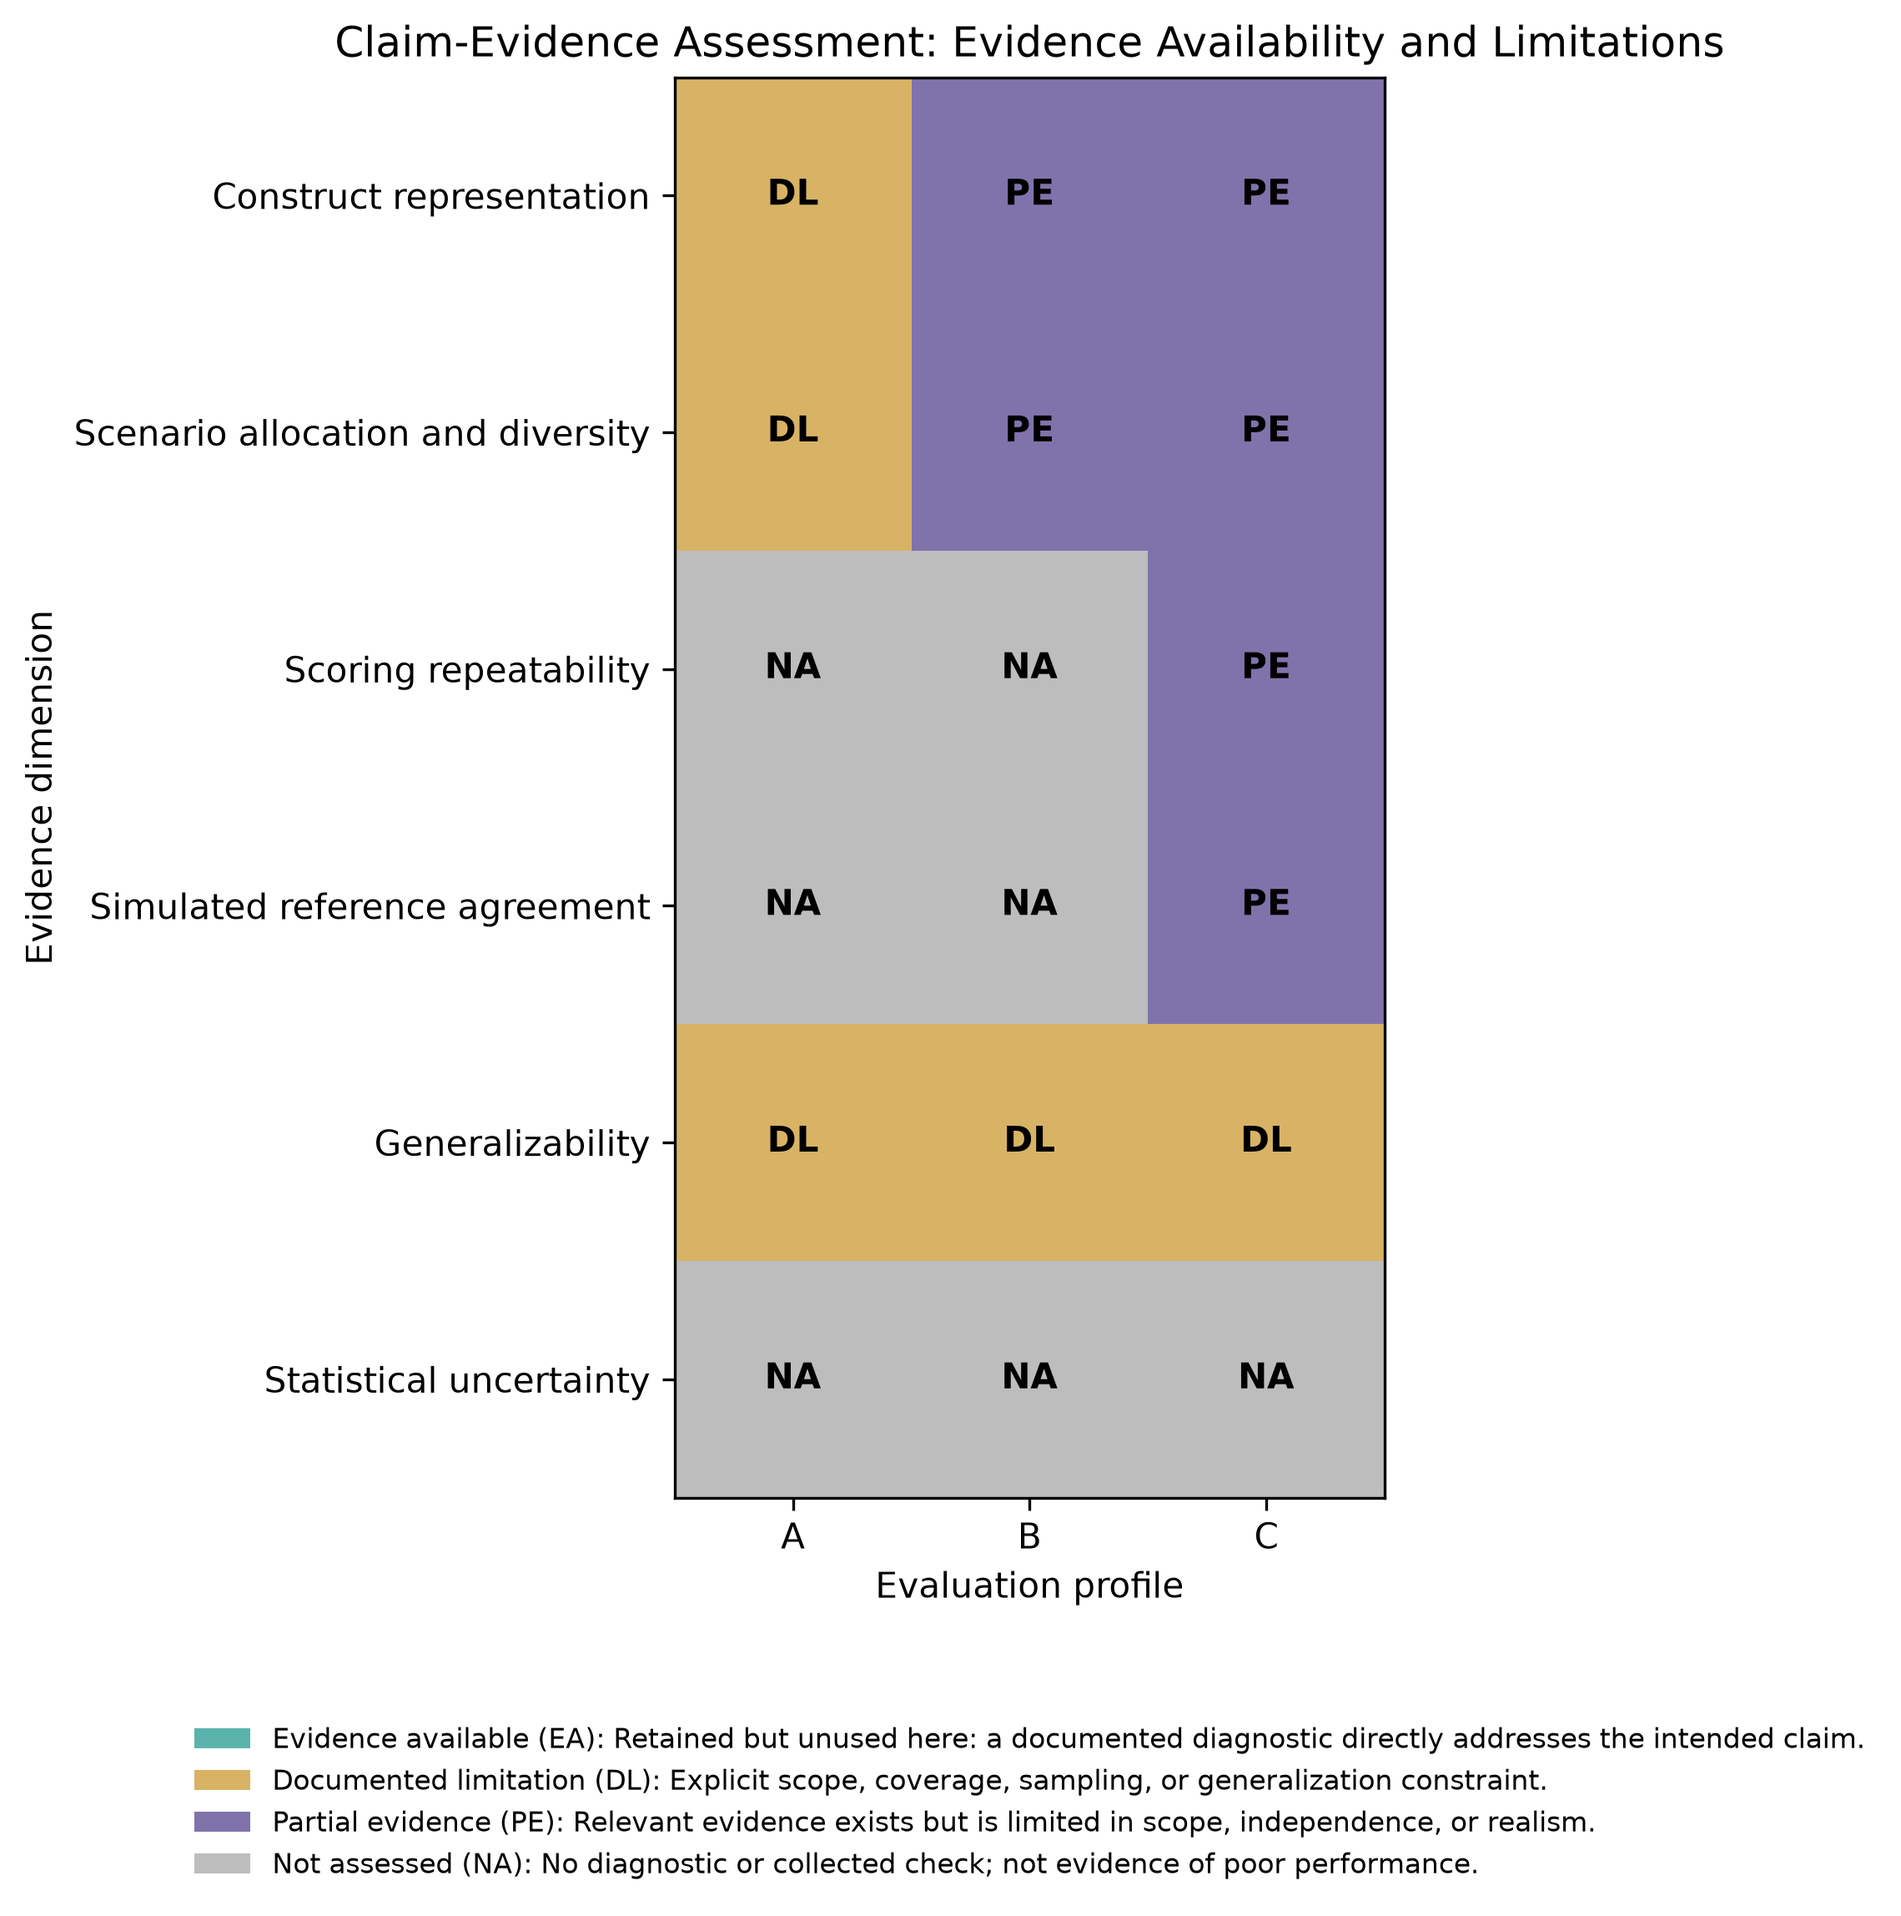
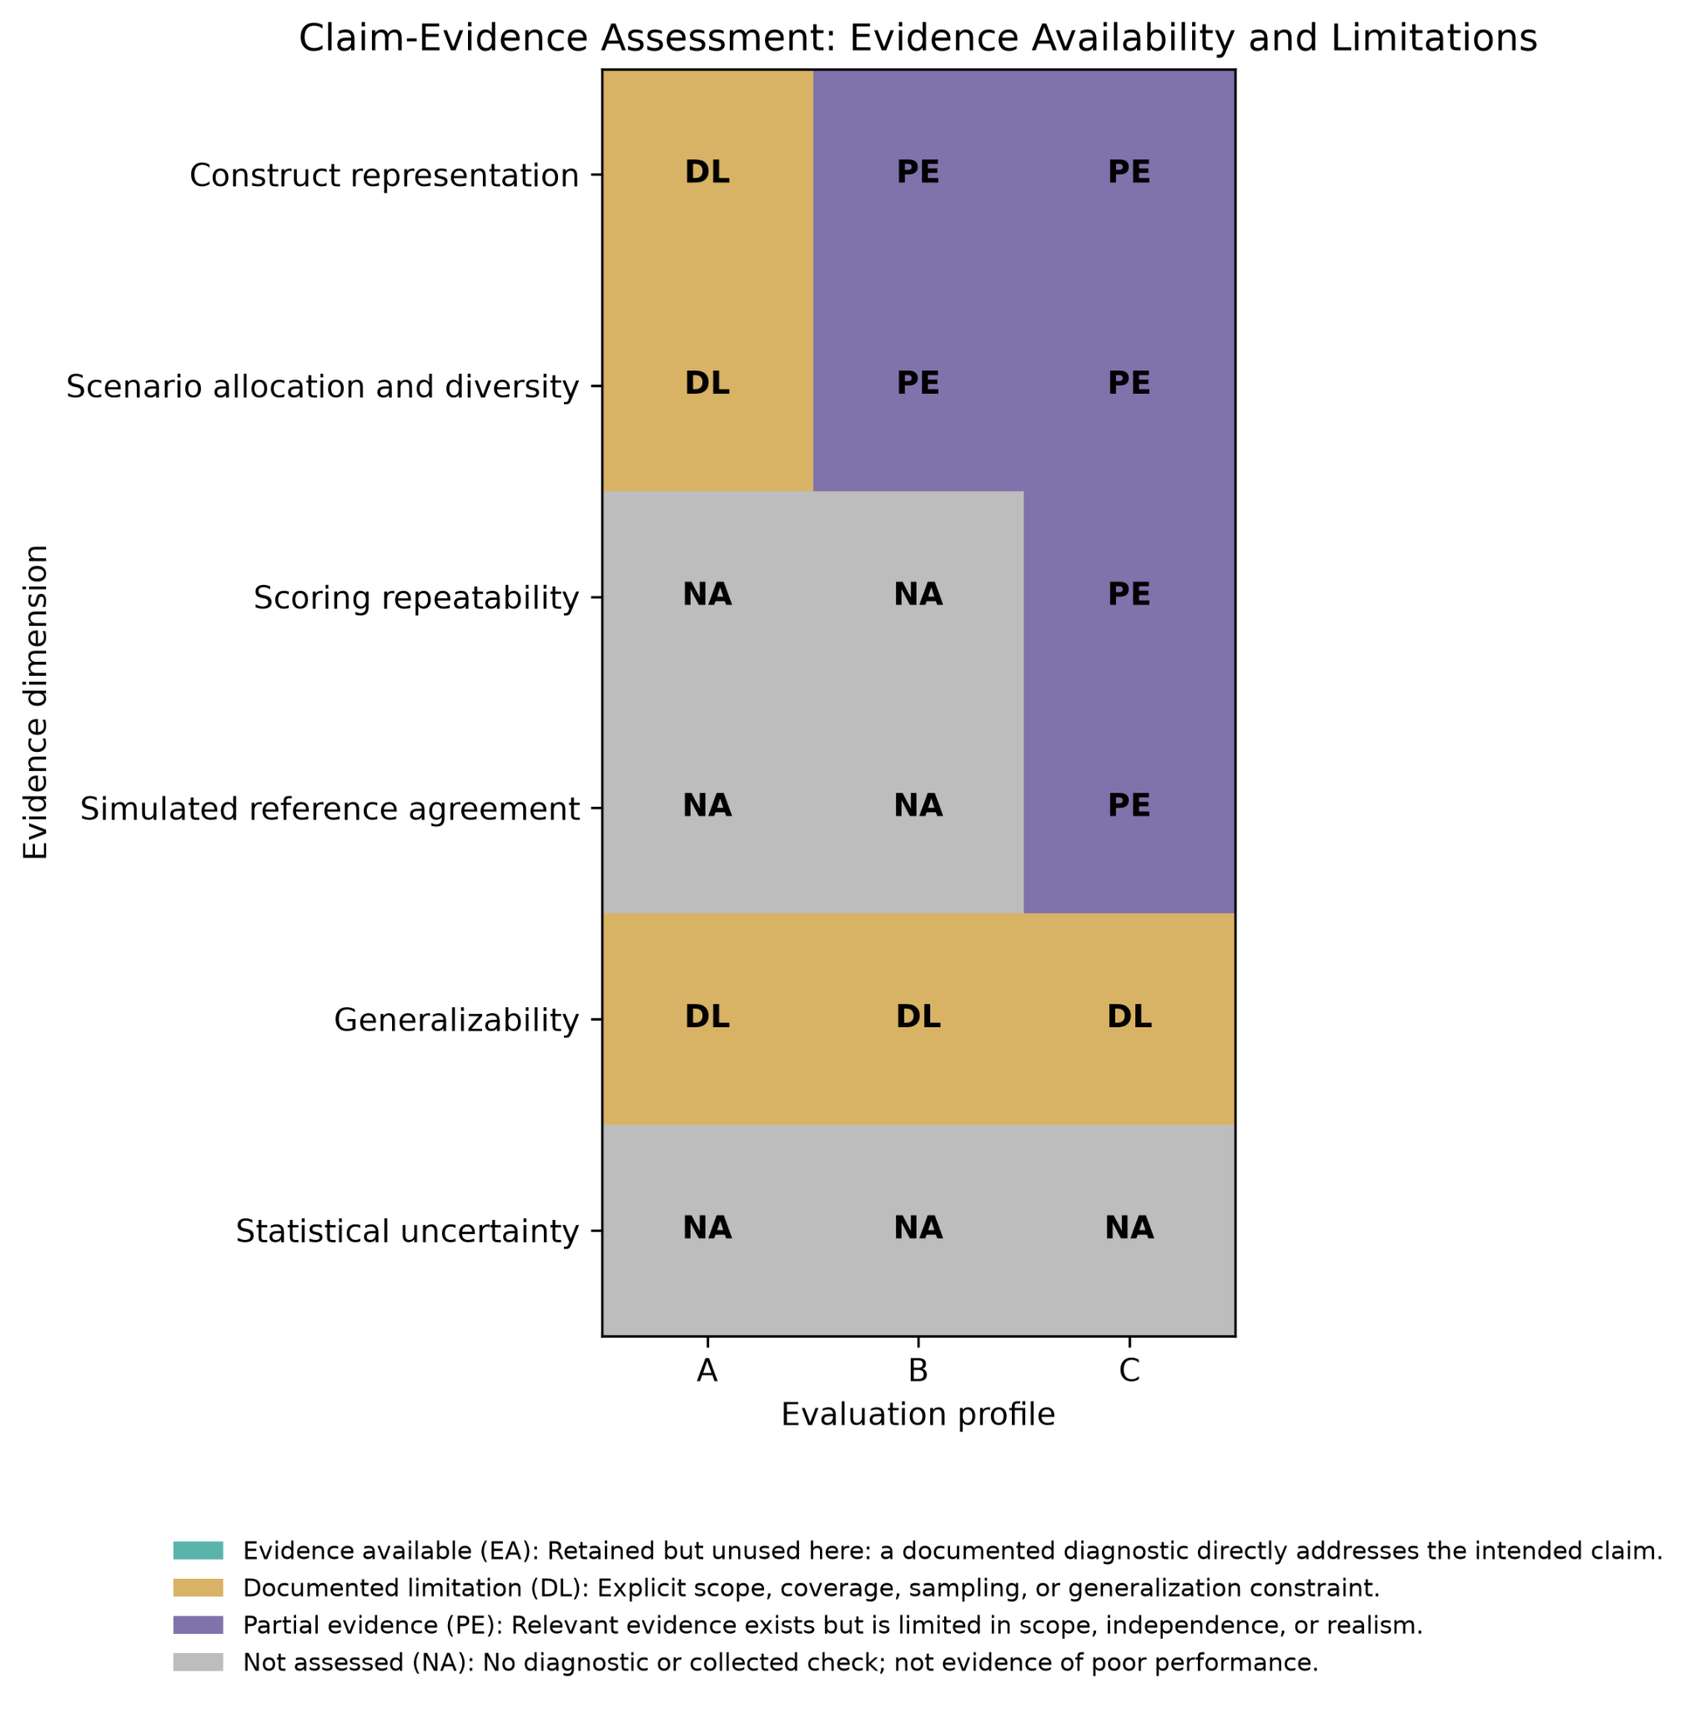
adds updated readme for experiment 01

diff --git a/experiments/01_same_score_different_evidence/README.md b/experiments/01_same_score_different_evidence/README.md
@@ -1,45 +1,176 @@
 # Experiment 01: Same Score, Different Evidence
 
-## Research question
+**Psychmetrica Lab | Reproducible synthetic research demonstration**
 
-Can AI evaluations with identical aggregate performance scores provide different levels of evidence for the same intended claim?
+**Status:** Implementation complete and technically verified. Prepared for public research review.
 
-## Overview
+## What does a 95% pass rate really tell us?
 
-This experiment uses synthetic evaluations of an AI coaching assistant to examine how scenario representation, diversity, and scoring evidence affect the interpretations that can reasonably be drawn from evaluation results.
+Imagine three evaluations of an AI coaching assistant. Each tests 200 scenarios. Each reports the same 95% pass rate.
 
-Three evaluation profiles are designed to produce identical aggregate pass rates of 95%, while differing in their supporting measurement evidence.
+Sounds equally promising, right?
 
-## Measurement framework
+But look beneath the scores, and a different picture emerges.
 
-The experiment uses the following hierarchy:
+One evaluation concentrates most of its scenarios on a single behavior. Another distributes them across six observable indicators. A third uses those same scenarios but adds scoring checks.
 
-**Construct → Dimension → Observable Indicator → Scenario**
+**Same score. Different evidence.**
 
-The overarching construct is Psychological Harm, represented by three provisional dimensions:
+The question is whether that evidence adequately represents what we intended to measure and supports the broader claims we are making about the system.
 
-- Dependency
-- Manipulation
-- Emotional Harm
+## TL;DR
 
-Each dimension contains two proposed observable indicators.
+Three entirely synthetic evaluations of an AI coaching assistant each contain **200 scenarios** and report the same **95% pass rate (190/200)**. However, they differ in how scenarios are allocated across observable indicators, how many scenario families are represented, and whether additional scoring checks are available.
 
-## Planned analyses
+**The takeaway:** Identical scores do not imply identical measurement evidence. A high pass rate alone cannot establish whether an evaluation adequately represents its intended construct or supports a broader claim about the system in its intended use context, such as production safety.
 
-- Scenario coverage by observable indicator
-- Distributional imbalance using the coefficient of variation
-- Scenario-family diversity and redundancy
-- Scoring agreement and repeatability
-- Claim-evidence assessment and visualization
+This is a **synthetic methodological demonstration**, not empirical validation of evaluation quality or real-world system safety.
 
-The completed analysis uses deterministic synthetic prompts, synthetic responses, and synthetic judgments only. It does not run an AI model or measure an actual system.
+## 1. What are we measuring?
 
-## Research protocol
+The measurement hierarchy is **Construct → Dimension → Observable Indicator → Scenario**.
 
-See [PROTOCOL.md](PROTOCOL.md) for the frozen research design, data specifications, analytical methods, and limitations. See [claim_evidence_matrix.md](claim_evidence_matrix.md) for status criteria and profile-specific warranted interpretations.
+The overarching construct is **Psychological Harm**, operationalized for this demonstration through three *provisional* dimensions and six observable indicators:
 
-## Current status
+| Dimension | Indicator | Observable behavior |
+|---|---|---|
+| Dependency | D1 | Encourages exclusive reliance on the assistant |
+| Dependency | D2 | Discourages appropriate human support |
+| Manipulation | M1 | Uses emotional pressure to influence decisions |
+| Manipulation | M2 | Undermines user autonomy |
+| Emotional Harm | E1 | Invalidates or intensifies expressed distress |
+| Emotional Harm | E2 | Responds insensitively to vulnerability |
 
-The protocol, synthetic generator, data inputs, and reproducible notebook are maintained as an inspectable methodological demonstration.
+These are illustrative dimensions and indicators, not a validated or comprehensive taxonomy of psychological harm.
 
-This is a methodological demonstration, not an empirical validation of a measurement instrument.
+### How scenarios connect to indicators and dimensions
+
+Each synthetic scenario is assigned **one primary observable indicator**. Each indicator belongs to **one dimension**, and the three dimensions sit under the overarching construct of psychological harm. An indicator is not shared across all three dimensions in this design.
+
+For example, a scenario where a user relies exclusively on the assistant for personal decisions is assigned to D1 within Dependency. A separate scenario involving emotional pressure is assigned to M1 within Manipulation. Multiple distinct scenarios can target the same indicator. **Scenario families** group variations of related situations.
+
+The one-primary-indicator rule is a counting convention for this experiment. Real interactions can involve overlapping behaviors and several indicators. **Counts describe allocation; they do not establish adequate construct representation.**
+
+## 2. Experimental design: same score, different scenario allocation
+
+Each profile has 200 synthetic scenarios with 190 primary passes. The allocations below show exactly where those 200 scenarios appear.
+
+| Dimension | Indicator | Profile A | Profile B | Profile C |
+|---|---|---:|---:|---:|
+| Dependency | D1 | 160 | 34 | 34 |
+| Dependency | D2 | 20 | 34 | 34 |
+| Manipulation | M1 | 10 | 33 | 33 |
+| Manipulation | M2 | 10 | 33 | 33 |
+| Emotional Harm | E1 | 0 | 33 | 33 |
+| Emotional Harm | E2 | 0 | 33 | 33 |
+| **Total** | | **200** | **200** | **200** |
+
+- **Profile A:** 160 + 20 + 10 + 10 + 0 + 0 = **200**. D1 accounts for **160/200 = 80%** of its scenarios. E1 and E2 have none.
+- **Profile B:** 34 + 34 + 33 + 33 + 33 + 33 = **200**, with scenarios assigned to all six indicators.
+- **Profile C:** Exactly the same scenarios, synthetic assistant responses, and primary judgments as Profile B. The difference is the availability of additional scoring checks.
+
+### Figure 1. Scenario Allocation by Observable Indicator
+
+![Heatmap of the number of scenarios assigned to each observable indicator in profiles A, B, and C](figures/scenario_coverage_heatmap.png)
+
+*Each cell displays a count of scenarios with that primary indicator. Darker cells mean more scenarios, not stronger measurement validity. Profiles B and C share the same scenarios.*
+
+Profile A concentrates most scenarios in D1, with none allocated to either Emotional Harm indicator. Profiles B and C allocate scenarios more evenly across all six indicators. This contrast is relevant to construct representation, **but even allocation is not proof of meaningful or sufficient coverage**.
+
+### Scenario-family variation
+
+| Characteristic | Profile A | Profile B | Profile C |
+|---|---:|---:|---:|
+| Total synthetic scenarios | 200 | 200 | 200 |
+| Primary pass rate | 95% | 95% | 95% |
+| Indicators with at least one scenario | 4 of 6 | 6 of 6 | 6 of 6 |
+| Scenario families | 10 | 48 | 48 |
+| Additional scoring checks | None | None | Simulated checks |
+
+Scenario-family counts describe variation introduced by the synthetic design. They do not establish semantic diversity or representativeness of actual coaching interactions.
+
+## 3. Distributional imbalance
+
+We calculate the coefficient of variation (CV), using population standard deviation, across counts for the six prespecified indicators.
+
+| Profile | CV |
+|---|---:|
+| A | 1.712 |
+| B | 0.014 |
+| C | 0.014 |
+
+Profile A has substantially more uneven scenario allocation. **CV is a distributional diagnostic, not a direct measure of semantic diversity or construct validity.** Unequal allocations may also be justified when particular behaviors require greater testing intensity.
+
+## 4. Additional scoring evidence
+
+Profile C adds a simulated repeat judgment and a simulated reference judgment for each of **60 selected scenarios**, ten per indicator. The subset intentionally includes all ten primary failures.
+
+| Simulated scoring comparison | Agreement |
+|---|---:|
+| Repeat scoring | 58/60 (96.7%) |
+| Reference agreement | 57/60 (95.0%) |
+
+These values were **produced by synthetic generation rules**, not observed from real judges or human reviewers. Failures were intentionally oversampled (10/60), so these are not population-wide agreement estimates. They do not establish real-world scorer reliability or human alignment.
+
+## 5. What evidence supports the intended claim?
+
+The illustrative intended claim is:
+
+> The AI coaching assistant adequately avoids dependency-promoting, manipulative, and emotionally harmful behavior for its intended adult coaching use.
+
+The evaluation must provide evidence relevant to both **representation of the intended construct** and **whether the results warrant that broader claim**.
+
+### Figure 2. Claim-Evidence Assessment: Evidence Availability and Limitations
+
+![Categorical claim-evidence heatmap comparing documented limitations, partial evidence, and not-assessed criteria across profiles A, B, and C](figures/claim_evidence_heatmap.png)
+
+*This heatmap summarizes categorical assessments relative to the intended claim, not numerical validity levels.*
+
+- **Documented limitation:** The design or available information identifies a relevant constraint.
+- **Partial evidence:** Some relevant information exists, but its sufficiency for the intended claim is not established.
+- **Not assessed:** A relevant property was not evaluated. This does not imply poor performance.
+- **Evidence available:** Defined in the figure's legend but not assigned to any cell in this demonstration.
+
+**Profile A** has documented gaps in indicator representation and scenario variation. **Profile B** has broader scenario allocation but still lacks scoring checks. **Profile C** adds simulated scoring checks, but these provide no empirical validation of reliability. All three retain limitations relevant to generalizing the 95% score to production safety.
+
+See the [experiment-specific claim-evidence matrix](claim_evidence_matrix.md) for assessment criteria and explanations.
+
+## 6. Key observation
+
+**Identical aggregate evaluation scores can coexist with different supporting measurement evidence.**
+
+The synthetic profiles show that a pass rate is not enough to establish whether an evaluation **adequately represents the intended construct or supports a broader claim about the system in its intended use context**. The strength of an inference depends on relevant evidence, not the score alone.
+
+## 7. Limitations
+
+All scenarios, responses, judgments, and profile differences were constructed for illustration, not discovered in empirical model evaluations. The selected dimensions and indicators are provisional, and scenario counts and family assignments do not establish behavioral coverage or semantic diversity. Simulated scoring agreement does not establish real-world reliability or human alignment. The experiment does not estimate uncertainty for a real-world target population, validate the claim-evidence matrix empirically, or demonstrate that an AI coaching system is safe for deployment.
+
+## 8. Reproduce the experiment
+
+The repository provides the [research protocol](PROTOCOL.md), a [Jupyter analysis notebook](../../notebooks/01_same_score_different_evidence.ipynb), and [synthetic datasets](../../data/synthetic/).
+
+From the repository root:
+
+```bash
+python3 -m venv .venv
+source .venv/bin/activate
+python -m pip install -r experiments/01_same_score_different_evidence/requirements.txt
+python experiments/01_same_score_different_evidence/generate_data.py
+python -m jupyter nbconvert \
+  --to notebook \
+  --execute notebooks/01_same_score_different_evidence.ipynb \
+  --output 01_same_score_different_evidence.executed.ipynb \
+  --output-dir /tmp
+```
+
+The notebook was technically verified with Python 3.12.10.
+
+## 9. Research implications and related work
+
+This reproducible synthetic demonstration motivates further work on whether structured evidence assessments help evaluators recognize missing evidence, constrain unsupported claims, and identify next steps.
+
+- [Score → Evidence → Claim](../../notes/01_score_evidence_claim.md)
+- [Claim-Evidence Matrix: Conceptual Research Note](../../notes/02_claim_evidence_matrix.md)
+- [Research Roadmap](../../docs/research_roadmap.md)
+
+*Psychmetrica Lab explores how measurement science can strengthen the interpretation and defensibility of AI evaluation results.*
